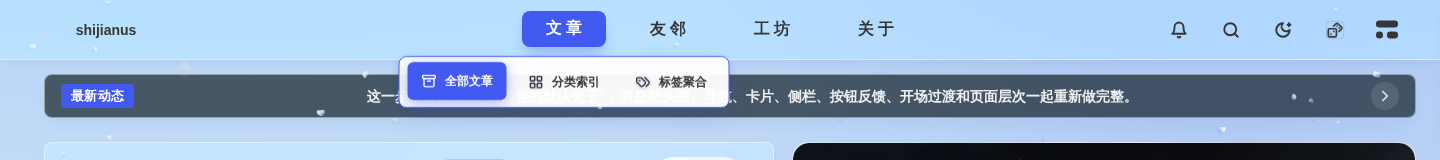
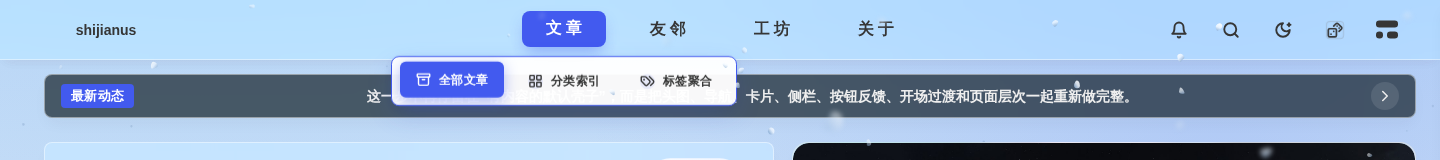
docs(agents): update Task 259 with commit hash 48a8fdc

diff --git a/AGENTS.md b/AGENTS.md
@@ -5585,7 +5585,7 @@
   - 通过 Wrangler 将最新生产构建分别部署至 `shijianus-blog`（绑定主域 `https://blog.epocanvas.com/`，部署 ID `e7d99d07`）与 `shijianus-github-io`（绑定主域 `https://blog.shijian.qzz.io/` / `https://shijianus-github-io.pages.dev/`，部署 ID `7f0cfcd0`）；
   - 创建 `.nvmrc` 与 `.node-version` 明确指定 Node.js 22.12.0，彻底消除 Cloudflare Git CI 容器与 Astro 6 的 Node 版本不兼容问题。
 - [x] **双平台公网实机端到端全链路审计 100% 通过 (`scripts/verify-live-menus-anzhiyu.mjs`)**：
-### Task 259: 主导航与子菜单配色全景同步对标安知鱼、彻底根除选框色调与描边阴影冲突 (Selection Box Color Synchronization)
+### Task 259: 主导航与子菜单配色全景同步对标安知鱼、彻底根除选框色调与描边阴影冲突 (48a8fdc)
 - [x] **色彩基因全景对标安知鱼 (Anzhiyu Unified Palette Alignment)**：
   - 逆向分析 `https://hexo.anheyu.com/` 与安知鱼官方样式系统：导航栏与子菜单统一锚定单一品牌色 `var(--theme-main, #425aef)`，杜绝多重透明度或冲突混杂；
   - 主导航顶层项悬停（`.menus_item:hover > .site-page`）应用纯色高辨识度胶囊（`#425aef`）搭配纯白文字（`#ffffff`）与柔和阴影（`0 8px 16px -4px rgba(66, 90, 239, 0.35)`）；
